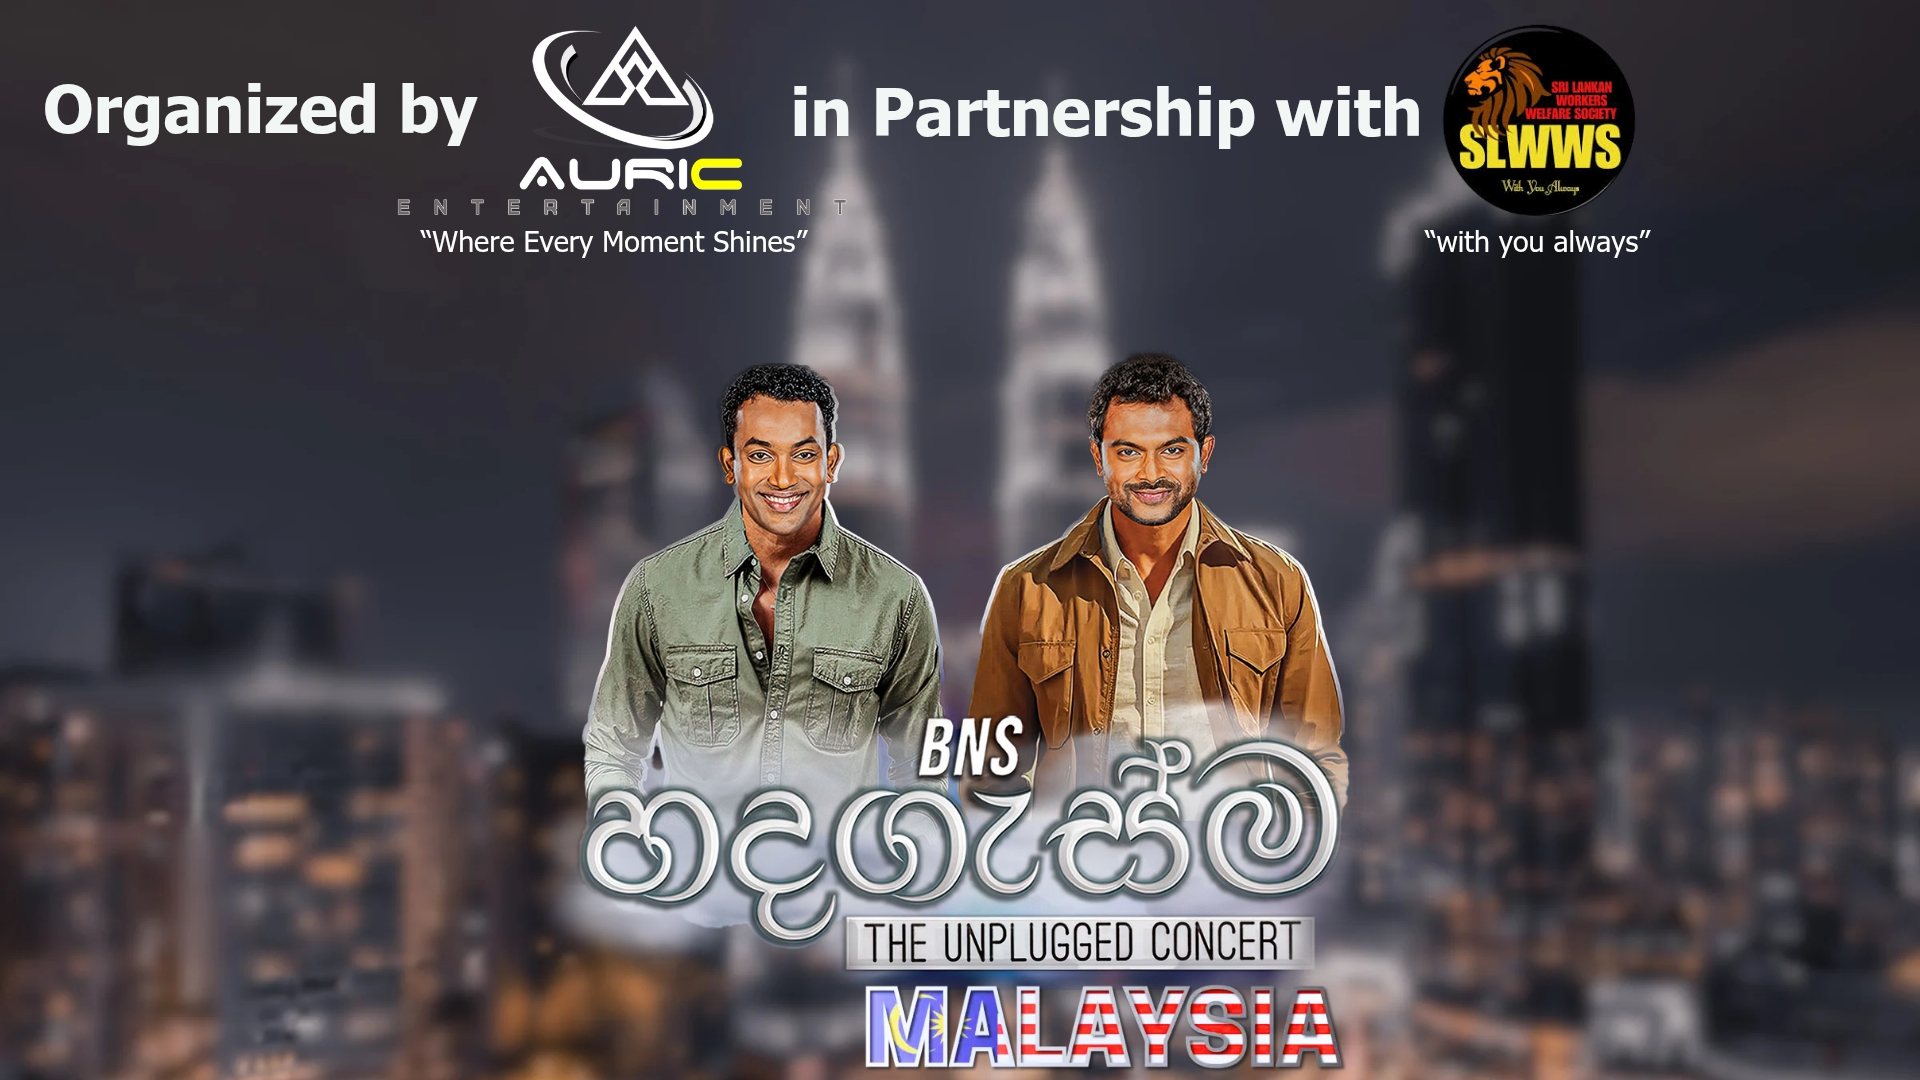
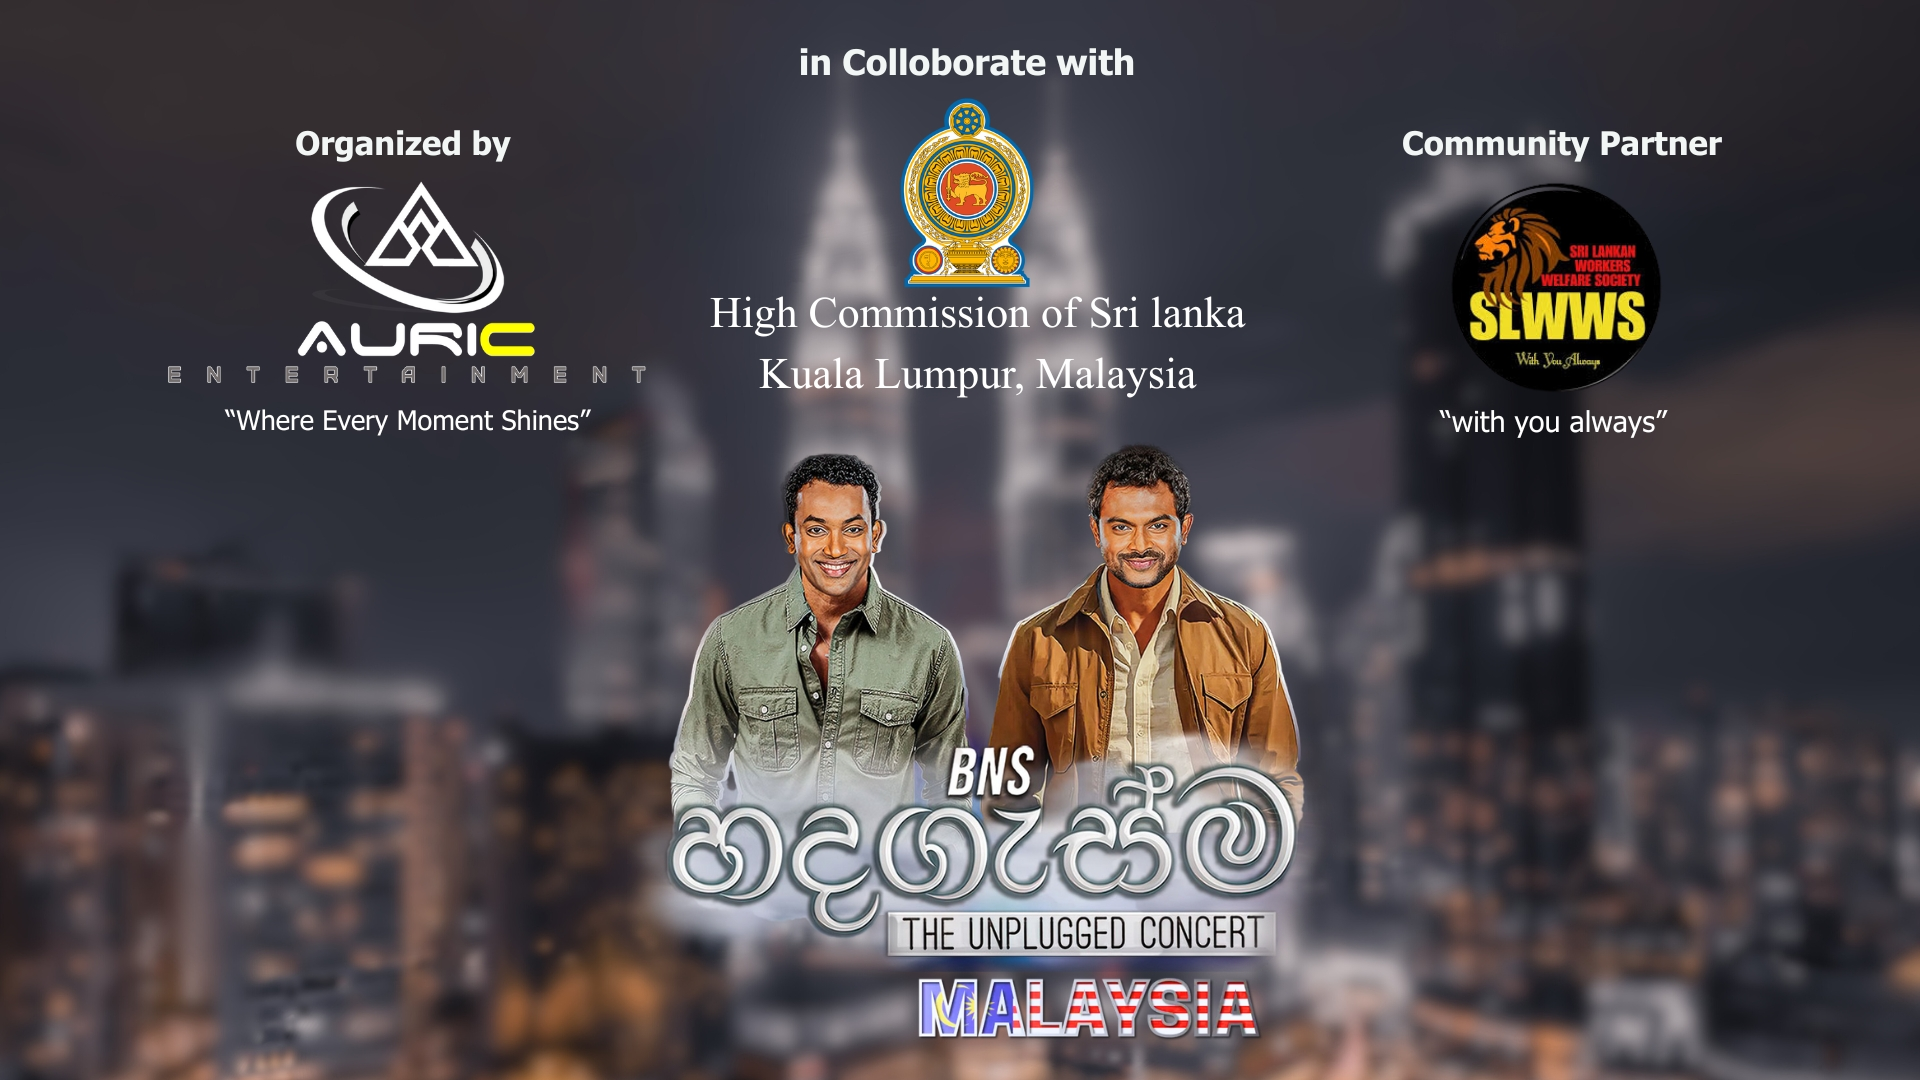
Updated Main image and remove CSR word from the proposal

Changed region(s): [[0.2812, 0.0, 0.9062, 1.0], [0.0, 0.0306, 0.4375, 0.3972]]

diff --git a/index.html b/index.html
@@ -4,8 +4,8 @@
 <head>
   <meta charset="UTF-8" />
   <meta name="viewport" content="width=device-width, initial-scale=1.0" />
-  <title>හදගැස්ම - BNS Live in Malaysia | AURIC ENTERTAINMENT — In Collaboration with Sri Lankan High Commission | CSR:
-    Apeksha Hospital</title>
+  <title>හදගැස්ම - BNS Live in Malaysia | AURIC ENTERTAINMENT – In Collaboration with Sri Lankan High Commission |
+    Supporting Apeksha Hospital</title>
   <style>
     * {
       margin: 0;
@@ -537,7 +537,7 @@
     <nav class="nav">
       <ul class="nav-links">
         <li><a href="#introduction">Introduction</a></li>
-        <li><a href="#csr-partnership">CSR Partnership</a></li>
+        <li><a href="#charitable-partnership">Charitable Partnership</a></li>
         <li><a href="#event-details">Event Details</a></li>
         <li><a href="#objectives">Objectives</a></li>
         <li><a href="#audience">Audience</a></li>
@@ -582,8 +582,8 @@
     <!-- CSR Partnership -->
 
 
-    <section id="csr-partnership">
-      <h2>Strategic Collaboration & CSR Partnership</h2>
+    <section id="charitable-partnership">
+      <h2>Strategic Collaboration & Charitable Partnership</h2>
 
       <div class="partner-logo-section">
         <h3>In Collaboration With</h3>
@@ -599,21 +599,22 @@
         <h3>Community Partner</h3>
         <img src="slwws.png" alt="Sri Lankan Workers Welfare Society (SLWWS) Logo" class="partner-logo">
         <h4>Sri Lankan Workers Welfare Society (SLWWS)</h4>
-        <p style="margin-top:8px; color:#e6e6e6;">Our community partner for on‑ground engagement and CSR execution.
+        <p style="margin-top:8px; color:#e6e6e6;">Our community partner for on–ground engagement and charitable
+          initiative execution.
           SLWWS will coordinate donation logistics and documentation.</p>
       </div>
 
       <div class="partner-logo-section">
-        <h3>CSR Beneficiary</h3>
+        <h3>Charitable Beneficiary</h3>
         <img src="help-apeksha-logo.svg" alt="Apeksha Hospital (Maharagama) Logo" class="partner-logo">
-        <h4>Apeksha Hospital (National Cancer Institute), Maharagama — Sri Lanka</h4>
-        <p style="margin-top:8px; color:#e6e6e6;">A <strong>fixed donation of RM 45,000</strong> from event proceeds
-          will be contributed to <strong>Apeksha Hospital (Maharagama)</strong> to support patient care and oncology
-          services.</p>
+        <h4>Apeksha Hospital (National Cancer Institute), Maharagama – Sri Lanka</h4>
+        <p style="margin-top:8px; color:#e6e6e6;"><strong>A portion of event profits</strong> will be contributed to
+          <strong>Apeksha Hospital (Maharagama)</strong> to support patient care and oncology services.
+        </p>
       </div>
 
       <div class="csr-highlight">
-        <h3>Proven CSR Track Record — “Rhythms of Hope” Project</h3>
+        <h3>Proven Community Impact Track Record – "Rhythms of Hope" Project</h3>
         <p>Our community partner, <strong>Sri Lankan Workers Welfare Society (SLWWS)</strong>, has a strong history of
           executing successful social impact projects.</p>
         <p>In <strong>November 2023</strong>, SLWWS organized the <strong>“Rhythms of Hope – Marians Live in
@@ -635,16 +636,21 @@
       </div>
 
       <div class="csr-highlight">
-        <h3>Donation Structure & Transparency</h3>
+        <h3>Profit Sharing & Transparency</h3>
         <ul>
-          <li><strong>Fixed CSR Amount:</strong> RM 45,000 will be allocated from event proceeds as a charitable
-            donation.</li>
+          <li><strong>Profit Distribution:</strong> Event profits will be shared as follows:
+            <ul style="margin-top: 8px;">
+              <li>45% - Auric Entertainment</li>
+              <li>30% - Sri Lankan Workers Welfare Society (SLWWS)</li>
+              <li>25% - Apeksha Hospital (Maharagama)</li>
+            </ul>
+          </li>
           <li><strong>Flow & Governance:</strong> Donation facilitation and handover will be organised by
             <strong>SLWWS</strong>, carried out <strong>with the knowledge and support of the Sri Lankan High Commission
               in Malaysia</strong>, ensuring proper protocol and records.
           </li>
-          <li><strong>Reporting:</strong> A post‑event CSR report (remittance summary and acknowledgement from Apeksha
-            Hospital) will be shared with partners and sponsors.</li>
+          <li><strong>Reporting:</strong> A post-event financial report (including remittance summary and
+            acknowledgement from Apeksha Hospital) will be shared with partners and sponsors.</li>
         </ul>
       </div>
       <div class="info-grid">
@@ -658,7 +664,8 @@
         </div>
         <div class="info-card">
           <h4>Accountability</h4>
-          <p>Clear CSR amount and documented handover ensure transparency for sponsors and stakeholders.</p>
+          <p>Clear profit-sharing structure and documented handover ensure transparency for sponsors and stakeholders.
+          </p>
         </div>
         <div class="info-card">
           <h4>Sustainable Outreach</h4>
@@ -666,8 +673,8 @@
         </div>
       </div>
 
-      <p style="margin-top: 20px; font-weight:600;">Every ticket purchased helps Apeksha Hospital continue its vital
-        mission for cancer patients in Sri Lanka.</p>
+      <p style="margin-top: 20px; font-weight:600;">Every ticket purchased contributes to supporting Apeksha Hospital's
+        vital mission for cancer patients in Sri Lanka.</p>
     </section>
 
 
@@ -734,8 +741,8 @@
 
       <h3>3. Create Meaningful Social Impact</h3>
       <ul>
-        <li>To contribute RM 45,000 towards Apeksha Hospital (Maharagama), supporting cancer care and oncology services
-          in Sri Lanka.</li>
+        <li>To contribute a portion of event profits towards Apeksha Hospital (Maharagama), supporting cancer care and
+          oncology services in Sri Lanka.</li>
         <li>To demonstrate the power of cultural events in driving positive social change and community development.
         </li>
         <li>To continue the success of previous initiatives like the Rhythms of Hope water plant project in Vavuniya.
@@ -813,7 +820,7 @@
           South Asian cultural groups</li>
         <li>Content strategy: Countdown posts, teaser videos, and artist shoutouts from BNS</li>
         <li>Interactive engagement through polls, Q&A sessions, and giveaways</li>
-        <li>Highlight CSR partnership and social impact messaging</li>
+        <li>Highlight charitable partnership and social impact messaging</li>
       </ul>
 
       <h4>TikTok Reels & YouTube Shorts</h4>
@@ -822,7 +829,7 @@
         <li>Behind-the-scenes clips showcasing concert preparation</li>
         <li>Past concert highlights demonstrating BNS's electrifying performances</li>
         <li>User-generated content campaigns encouraging fans to share their BNS memories</li>
-        <li>Feature SLWWS's previous CSR success story (RO water plant project)</li>
+        <li>Feature SLWWS's previous community impact success story (RO water plant project)</li>
       </ul>
 
       <h4>WhatsApp & Telegram Broadcasting</h4>
@@ -873,7 +880,7 @@
         <li>Major outlets: TV Derana, Hiru TV, Sirasa TV, Lankadeepa Online</li>
         <li>Feature articles, interviews with organizers, SLWWS, and BNS (via video call)</li>
         <li>Live coverage announcements and concert previews</li>
-        <li>Highlight the CSR angle and social impact messaging</li>
+        <li>Highlight the charitable initiative and social impact messaging</li>
       </ul>
 
       <h4>Local Malaysian/Singaporean Media</h4>
@@ -935,7 +942,7 @@
             <li>Official website launch</li>
             <li>Ticketing platform goes live</li>
             <li>Initial social media campaign rollout</li>
-            <li>Announce CSR partnership and RM 45,000 donation commitment</li>
+            <li>Announce charitable partnership and profit-sharing structure with Apeksha Hospital</li>
           </ul>
         </div>
 
@@ -959,7 +966,7 @@
             <li>Intensified Singapore promotions</li>
             <li>Influencer takeovers and collaborations</li>
             <li>Radio spot increases</li>
-            <li>CSR impact messaging and community testimonials</li>
+            <li>Community impact messaging and testimonials</li>
           </ul>
         </div>
 
@@ -1084,7 +1091,7 @@
           <li>Regular Seats: 160</li>
         </ul>
         <p style="margin-top: 15px;"><strong>This tiered strategy ensures fair access across different income groups
-            within the expatriate community while supporting our CSR commitment.</strong></p>
+            within the expatriate community while supporting our charitable commitment.</strong></p>
       </div>
     </section>
 
@@ -1203,12 +1210,16 @@
       </table>
 
       <div class="csr-highlight">
-        <h4>CSR Commitment</h4>
-        <p><strong>CSR Commitment</strong></p>
-        <p>A fixed <strong>RM 45,000</strong> from event proceeds will be donated to <strong>Apeksha Hospital
-            (Maharagama)</strong>, Sri Lanka. Donation logistics will be <strong>coordinated by SLWWS</strong> with
-          protocol guidance from the <strong>Sri Lankan High Commission in Malaysia</strong>, and full documentation
-          will be maintained for transparency.</p>
+        <h4>Profit Sharing Structure</h4>
+        <p>After covering all event costs, net profits will be distributed as follows:</p>
+        <ul style="margin-top: 10px;">
+          <li><strong>45%</strong> - Auric Entertainment (Operations & Future Events)</li>
+          <li><strong>30%</strong> - Sri Lankan Workers Welfare Society (SLWWS) (Community Programs)</li>
+          <li><strong>25%</strong> - Apeksha Hospital (Maharagama) (Patient Care & Oncology Services)</li>
+        </ul>
+        <p style="margin-top: 10px;">Donation logistics will be <strong>coordinated by SLWWS</strong> with protocol
+          guidance from the <strong>Sri Lankan High Commission in Malaysia</strong>, and full documentation will be
+          maintained for transparency.</p>
       </div>
 
       <h3>Ticket Revenue Projection</h3>
@@ -1327,7 +1338,8 @@
     <section id="sponsors">
       <h2>Sponsorship Opportunities</h2>
       <div class="highlight-box"><strong>Brand Visibility:</strong> Sponsors gain strong brand visibility and community
-        engagement within the Sri Lankan and South Asian diaspora, plus association with a meaningful CSR initiative.
+        engagement within the Sri Lankan and South Asian diaspora, plus association with a meaningful charitable
+        initiative.
       </div>
 
       <div class="sponsor-tier platinum">
@@ -1341,7 +1353,7 @@
           <li>Full-page ad in souvenir/digital program</li>
           <li>VIP 6 seats + backstage meet & greet with BNS</li>
           <li>On-stage acknowledgement + corporate booth/activation zone</li>
-          <li>Recognition as supporter of SLWWS CSR initiative</li>
+          <li>Recognition as supporter of SLWWS community initiative</li>
         </ul>
       </div>
 
@@ -1433,7 +1445,7 @@
           <li><strong>Captive Audience:</strong> 1,000+ engaged Sri Lankan and South Asian community members</li>
           <li><strong>Positive Brand Association:</strong> Align your brand with cultural celebration and social impact
           </li>
-          <li><strong>CSR Alignment:</strong> Support SLWWS's community development projects in Sri Lanka</li>
+          <li><strong>Community Impact:</strong> Support SLWWS's community development projects in Sri Lanka</li>
           <li><strong>Media Coverage:</strong> Extensive press, digital, and social media exposure</li>
           <li><strong>Community Goodwill:</strong> Long-term brand loyalty within expatriate community</li>
         </ul>
@@ -1445,18 +1457,18 @@
       <h2>Event Launch</h2>
       <p>The official launch is scheduled for <strong>16th November 2025</strong>.</p>
       <p>This launch highlights our collaboration with the <strong>Sri Lankan High Commission in Malaysia</strong>, our
-        <strong>community partnership with SLWWS</strong>, and our <strong>CSR donation to Apeksha Hospital
+        <strong>community partnership with SLWWS</strong>, and our <strong>charitable contribution to Apeksha Hospital
           (Maharagama)</strong>.
       </p>
       <div class="info-grid">
         <div class="info-card">
           <h4>Press & Media Conference</h4>
-          <p>Introduce the concert initiative with SLWWS; Q&A with media about CSR partnership.</p>
+          <p>Introduce the concert initiative with SLWWS; Q&A with media about charitable partnership.</p>
         </div>
         <div class="info-card">
-          <h4>Website Launch</h4>
-          <p>Event website with details, ticketing, sponsorship info, and CSR impact section.</p>
-        </div>
+  <h4>Website Launch</h4>
+  <p>Event website with details, ticketing, sponsorship info, and community impact section.</p>
+</div>
         <div class="info-card">
           <h4>Ticket Sales Opening</h4>
           <p>All ticket categories go on sale across multiple price points.</p>
@@ -1477,7 +1489,7 @@
         <h4>Launch Highlights</h4>
         <ul>
           <li>Formal announcement of Auric Entertainment and SLWWS partnership</li>
-          <li>Presentation of the RM 45,000 CSR commitment</li>
+          <li>Presentation of the profit-sharing charitable structure</li>
           <li>Video showcase of Rhythms of Hope water plant project success</li>
           <li>All sponsors will be formally introduced with logo displays and media mentions</li>
           <li>Live streaming on social media platforms for community abroad</li>
@@ -1520,21 +1532,20 @@
           <p><strong>RM 260,000+</strong></p>
         </div>
         <div class="info-card">
-          <h4>Projected Net Revenue</h4>
-          <p><strong>RM 248,388+</strong></p>
-          <p style="font-size:.95em;color:#555">Total Revenue = Net Ticket (after 12% PUSPAL and RM 45,000 CSR
-            deduction) + Sponsorship. Example: RM 260,888 (tickets after CSR) + RM 260,000 (sponsors) − RM 273,000
-            (budget) ≈ RM 247,888. Actuals may vary.
+          <h4>Projected Net Profit (Before Distribution)</h4>
+          <p><strong>RM 292,888+</strong></p>
+          <p style="font-size:.95em;color:#555">Calculation: Net Ticket Revenue (RM 305,888 after 12% PUSPAL) +
+            Sponsorship (RM 260,000) − Total Budget (RM 273,000) = Net Profit. This will be distributed: 45% Auric / 30%
+            SLWWS / 25% Apeksha Hospital. Actuals may vary.
           </p>
         </div>
       </div>
       <div class="highlight-box" style="margin-top:16px;">
-        <strong>CSR Deduction Note:</strong> A fixed <strong>RM 45,000</strong> from event proceeds will be donated to
-        <strong>Apeksha Hospital (Maharagama)</strong> in Sri Lanka. The donation facilitation and documentation will be
-        coordinated by <strong>SLWWS</strong> with oversight and support from the <strong>Sri Lankan High Commission in
-          Malaysia</strong>.
-        The <em>net ticket settlement to Auric Entertainment</em> is therefore <strong>RM 305,888 − RM 45,000 = RM
-          260,888</strong> (before any other adjustments).
+        <strong>Profit Distribution Note:</strong> After all event costs are covered, net profits will be distributed
+        according to the agreed structure: <strong>45% to Auric Entertainment</strong>, <strong>30% to SLWWS</strong>,
+        and <strong>25% to Apeksha Hospital (Maharagama)</strong> in Sri Lanka. The donation facilitation and
+        documentation will be coordinated by <strong>SLWWS</strong> with oversight and support from the <strong>Sri
+          Lankan High Commission in Malaysia</strong>.
       </div>
 
 
@@ -1550,7 +1561,7 @@
         <p>✉ info@auricentertainment.my</p>
         <p>🌐 www.auricentertainment.my</p>
       </div>
-      <div style="margin-top: 18px; font-size: .95em; opacity: .9;">© 2025 Auric Entertainment. All rights reserved.
+      <div style="margin-top: 18px; font-size: .95em; opacity: .9;">© 2025 Auric Innovations. All rights reserved.
       </div>
     </footer>
 
